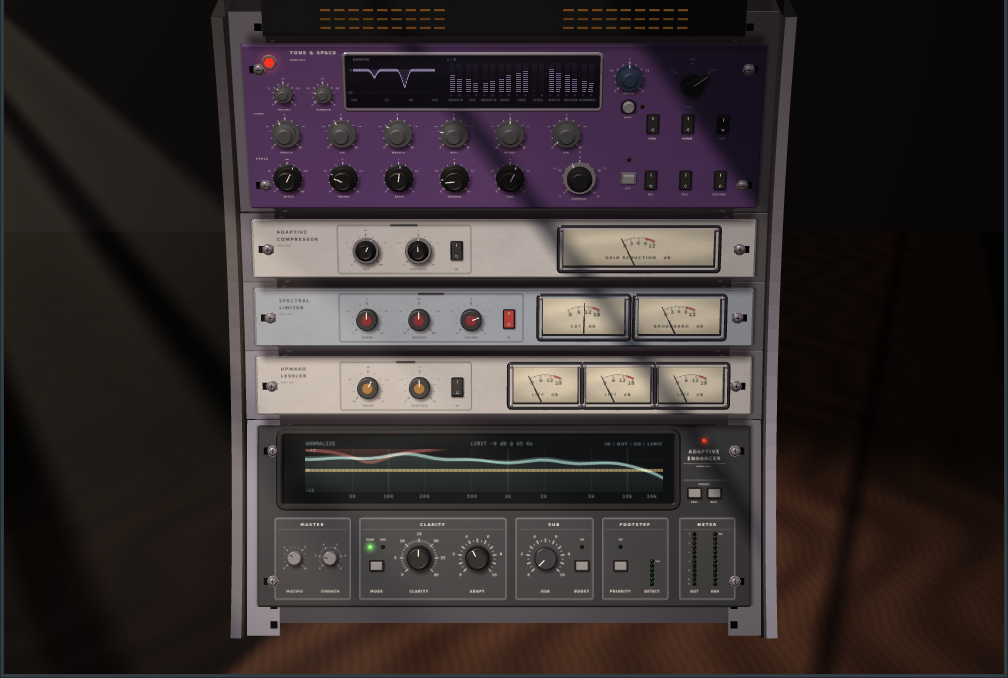
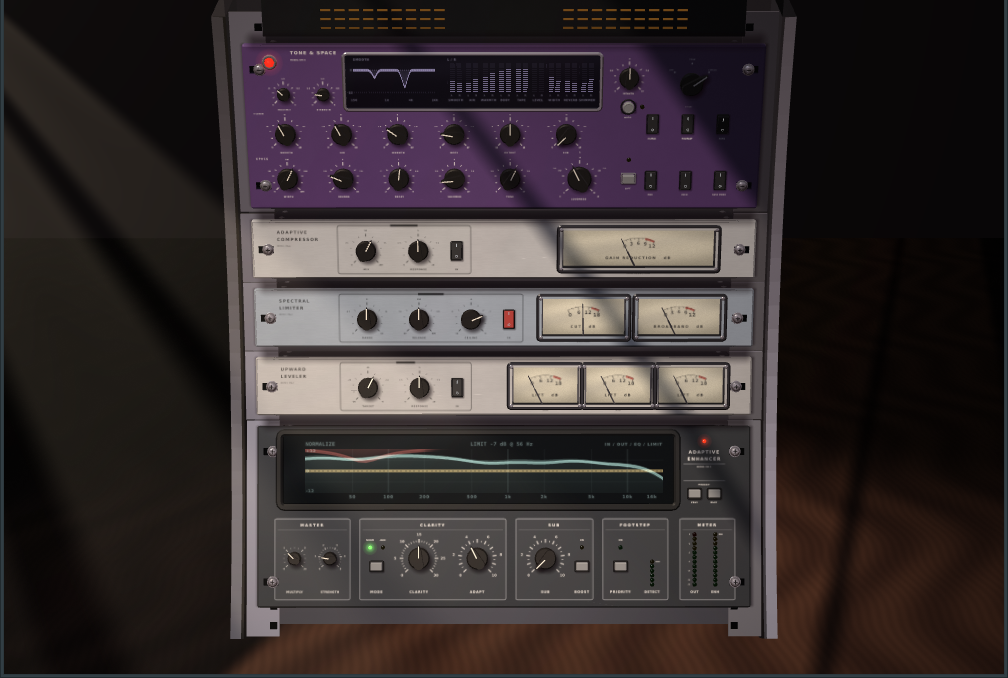
Black chicken-head knobs on every unit; auto modes turn the knobs they drive
- Every knob is a black bakelite chicken head like the POWER selector (beak ends at the ticks)
- AUTO heaven turns REVERB, DECAY, SHIMMER, SPACE TONE, WIDTH, AIR and SUB to the values in use;
  MATCH turns OUTPUT by its gain. Display only: parameters keep the user's settings.
- AUTO starts from a neutral programme's choice instead of zeros before it has heard anything

diff --git a/Source/UI/Scene/DeviceLayout.h b/Source/UI/Scene/DeviceLayout.h
@@ -392,37 +392,37 @@ namespace pad::layout
     // Each mode keeps its own setting; the MODE button swaps which one the knob drives.
     inline constexpr std::array<ControlDef, 44> controls {{
         { ControlKind::button, -1.29f, buttonZ, pid::clarityMode, "MODE" },
-        { ControlKind::knob,   -0.86f, knobZ,   pid::clarityNorm, "CLARITY", pid::clarityAdd, pid::clarityMode },
-        { ControlKind::knob,   -0.27f, knobZ,   pid::adaptSpeed,  "ADAPT" },
-        { ControlKind::knob,    0.42f, knobZ,   pid::sub,         "SUB", nullptr, nullptr, enhUnit, nullptr, 1.0f, KnobStyle::machinedBlack },
+        { ControlKind::knob,   -0.86f, knobZ,   pid::clarityNorm, "CLARITY", pid::clarityAdd, pid::clarityMode, enhUnit, nullptr, 1.0f, KnobStyle::chickenHeadKnob },
+        { ControlKind::knob,   -0.27f, knobZ,   pid::adaptSpeed,  "ADAPT", nullptr, nullptr, enhUnit, nullptr, 1.0f, KnobStyle::chickenHeadKnob },
+        { ControlKind::knob,    0.42f, knobZ,   pid::sub,         "SUB", nullptr, nullptr, enhUnit, nullptr, 1.0f, KnobStyle::chickenHeadKnob },
         { ControlKind::button,  0.79f, buttonZ, pid::subBoost,    "BOOST" },
         { ControlKind::button,  1.18f, buttonZ, pid::footstep,    "PRIORITY" },
-        { ControlKind::knob,   masterKnobX2[0], knobZ, pid::enhMultiply, "MULTIPLY", nullptr, nullptr, enhUnit, "ENHANCER", masterKnobSize, KnobStyle::machinedSilver },
-        { ControlKind::knob,   masterKnobX2[1], knobZ, pid::enhStrength, "STRENGTH", nullptr, nullptr, enhUnit, "ENHANCER", masterKnobSize, KnobStyle::machinedSilver },
+        { ControlKind::knob,   masterKnobX2[0], knobZ, pid::enhMultiply, "MULTIPLY", nullptr, nullptr, enhUnit, "ENHANCER", masterKnobSize, KnobStyle::chickenHeadKnob },
+        { ControlKind::knob,   masterKnobX2[1], knobZ, pid::enhStrength, "STRENGTH", nullptr, nullptr, enhUnit, "ENHANCER", masterKnobSize, KnobStyle::chickenHeadKnob },
 
         // Rack-wide PRESET buttons in the maker block (momentary; the name shows on the analyser)
         { ControlKind::button, presetButtonX[0], presetButtonZ, pid::presetPrev, "PREV", nullptr, nullptr, enhUnit, "PRESET" },
         { ControlKind::button, presetButtonX[1], presetButtonZ, pid::presetNext, "NEXT", nullptr, nullptr, enhUnit, "PRESET" },
 
-        { ControlKind::knob, seraphFirstKnobX + 0.0f * seraphKnobStep, seraphRow1Z, pid::silkSmooth, "SMOOTH", nullptr, nullptr, tubeUnit, "TONE", 1.0f, KnobStyle::marconiGrey },
-        { ControlKind::knob, seraphFirstKnobX + 1.0f * seraphKnobStep, seraphRow1Z, pid::silkAir, "AIR", nullptr, nullptr, tubeUnit, "TONE", 1.0f, KnobStyle::marconiGrey },
-        { ControlKind::knob, seraphFirstKnobX + 2.0f * seraphKnobStep, seraphRow1Z, pid::silkWarmth, "WARMTH", nullptr, nullptr, tubeUnit, "TONE", 1.0f, KnobStyle::marconiGrey },
-        { ControlKind::knob, seraphFirstKnobX + 3.0f * seraphKnobStep, seraphRow1Z, pid::silkBody, "BODY", nullptr, nullptr, tubeUnit, "TONE", 1.0f, KnobStyle::marconiGrey },
-        { ControlKind::knob, seraphFirstKnobX + 4.0f * seraphKnobStep, seraphRow1Z, pid::silkOutput, "OUTPUT", nullptr, nullptr, tubeUnit, "TONE", 1.0f, KnobStyle::marconiGrey },
-        { ControlKind::knob, seraphFirstKnobX + 5.0f * seraphKnobStep, seraphRow1Z, pid::silkSub, "SUB", nullptr, nullptr, tubeUnit, "TONE", 1.0f, KnobStyle::marconiGrey },
+        { ControlKind::knob, seraphFirstKnobX + 0.0f * seraphKnobStep, seraphRow1Z, pid::silkSmooth, "SMOOTH", nullptr, nullptr, tubeUnit, "TONE", 1.0f, KnobStyle::chickenHeadKnob },
+        { ControlKind::knob, seraphFirstKnobX + 1.0f * seraphKnobStep, seraphRow1Z, pid::silkAir, "AIR", nullptr, nullptr, tubeUnit, "TONE", 1.0f, KnobStyle::chickenHeadKnob },
+        { ControlKind::knob, seraphFirstKnobX + 2.0f * seraphKnobStep, seraphRow1Z, pid::silkWarmth, "WARMTH", nullptr, nullptr, tubeUnit, "TONE", 1.0f, KnobStyle::chickenHeadKnob },
+        { ControlKind::knob, seraphFirstKnobX + 3.0f * seraphKnobStep, seraphRow1Z, pid::silkBody, "BODY", nullptr, nullptr, tubeUnit, "TONE", 1.0f, KnobStyle::chickenHeadKnob },
+        { ControlKind::knob, seraphFirstKnobX + 4.0f * seraphKnobStep, seraphRow1Z, pid::silkOutput, "OUTPUT", nullptr, nullptr, tubeUnit, "TONE", 1.0f, KnobStyle::chickenHeadKnob },
+        { ControlKind::knob, seraphFirstKnobX + 5.0f * seraphKnobStep, seraphRow1Z, pid::silkSub, "SUB", nullptr, nullptr, tubeUnit, "TONE", 1.0f, KnobStyle::chickenHeadKnob },
 
-        { ControlKind::knob, seraphFirstKnobX + 0.0f * seraphKnobStep, seraphRow2Z, pid::haloWidth, "WIDTH", nullptr, nullptr, tubeUnit, "SPACE", 1.0f, KnobStyle::fluted },
-        { ControlKind::knob, seraphFirstKnobX + 1.0f * seraphKnobStep, seraphRow2Z, pid::haloSpace, "REVERB", nullptr, nullptr, tubeUnit, "SPACE", 1.0f, KnobStyle::fluted },
-        { ControlKind::knob, seraphFirstKnobX + 2.0f * seraphKnobStep, seraphRow2Z, pid::haloDecay, "DECAY", nullptr, nullptr, tubeUnit, "SPACE", 1.0f, KnobStyle::fluted },
-        { ControlKind::knob, seraphFirstKnobX + 3.0f * seraphKnobStep, seraphRow2Z, pid::haloShimmer, "SHIMMER", nullptr, nullptr, tubeUnit, "SPACE", 1.0f, KnobStyle::fluted },
-        { ControlKind::knob, seraphFirstKnobX + 4.0f * seraphKnobStep, seraphRow2Z, pid::haloTone, "TONE", nullptr, nullptr, tubeUnit, "SPACE", 1.0f, KnobStyle::fluted },
+        { ControlKind::knob, seraphFirstKnobX + 0.0f * seraphKnobStep, seraphRow2Z, pid::haloWidth, "WIDTH", nullptr, nullptr, tubeUnit, "SPACE", 1.0f, KnobStyle::chickenHeadKnob },
+        { ControlKind::knob, seraphFirstKnobX + 1.0f * seraphKnobStep, seraphRow2Z, pid::haloSpace, "REVERB", nullptr, nullptr, tubeUnit, "SPACE", 1.0f, KnobStyle::chickenHeadKnob },
+        { ControlKind::knob, seraphFirstKnobX + 2.0f * seraphKnobStep, seraphRow2Z, pid::haloDecay, "DECAY", nullptr, nullptr, tubeUnit, "SPACE", 1.0f, KnobStyle::chickenHeadKnob },
+        { ControlKind::knob, seraphFirstKnobX + 3.0f * seraphKnobStep, seraphRow2Z, pid::haloShimmer, "SHIMMER", nullptr, nullptr, tubeUnit, "SPACE", 1.0f, KnobStyle::chickenHeadKnob },
+        { ControlKind::knob, seraphFirstKnobX + 4.0f * seraphKnobStep, seraphRow2Z, pid::haloTone, "TONE", nullptr, nullptr, tubeUnit, "SPACE", 1.0f, KnobStyle::chickenHeadKnob },
 
         // LOUDNESS: one knob, two printed scales (HOLD / LIFT + HOLD), a button to swap between them
-        { ControlKind::knob,   0.74f, seraphRow2Z, pid::heavenHold, "LOUDNESS", pid::heavenLift, pid::heavenMode, tubeUnit, "TONE & SPACE", 1.18f, KnobStyle::marconi },
+        { ControlKind::knob,   0.74f, seraphRow2Z, pid::heavenHold, "LOUDNESS", pid::heavenLift, pid::heavenMode, tubeUnit, "TONE & SPACE", 1.18f, KnobStyle::chickenHeadKnob },
         { ControlKind::button, 1.22f, seraphRow2Z, pid::heavenMode, "LIFT", nullptr, nullptr, tubeUnit, "LOUDNESS", 1.0f, KnobStyle::proXl, SwitchStyle::rocker, ButtonStyle::chromeBezel },
 
         // AUTO heaven: the button hands the space to the unit, HEAVEN says how far it may take it
-        { ControlKind::knob,   1.20f, -0.50f, pid::heavenAutoAmount, "HEAVEN", nullptr, nullptr, tubeUnit, "TONE & SPACE", 0.95f, KnobStyle::marconiBlue },
+        { ControlKind::knob,   1.20f, -0.50f, pid::heavenAutoAmount, "HEAVEN", nullptr, nullptr, tubeUnit, "TONE & SPACE", 0.95f, KnobStyle::chickenHeadKnob },
         { ControlKind::button, 1.20f, -0.215f, pid::heavenAuto, "AUTO", nullptr, nullptr, tubeUnit, "HEAVEN", 1.0f, KnobStyle::proXl, SwitchStyle::rocker, ButtonStyle::round },
 
         { ControlKind::toggle, 1.78f, seraphRow1Z - 0.10f, pid::silkProtect, "PROTECT", nullptr, nullptr, tubeUnit, "TONE" },
@@ -433,21 +433,21 @@ namespace pad::layout
         { ControlKind::toggle, 1.44f, seraphRow2Z + 0.02f, pid::haloMod, "MOD", nullptr, nullptr, tubeUnit, "SPACE" },
 
         { ControlKind::selector, 1.80f, -0.44f, pid::seraphMode, "POWER", nullptr, nullptr, tubeUnit, "TONE & SPACE", 1.15f, KnobStyle::chickenHead },
-        { ControlKind::knob, seraphMasterX[0], seraphMasterZ, pid::seraphMultiply, "MULTIPLY", nullptr, nullptr, tubeUnit, "TONE & SPACE", masterKnobSize, KnobStyle::marconiGrey },
-        { ControlKind::knob, seraphMasterX[1], seraphMasterZ, pid::seraphStrength, "STRENGTH", nullptr, nullptr, tubeUnit, "TONE & SPACE", masterKnobSize, KnobStyle::marconiGrey },
+        { ControlKind::knob, seraphMasterX[0], seraphMasterZ, pid::seraphMultiply, "MULTIPLY", nullptr, nullptr, tubeUnit, "TONE & SPACE", masterKnobSize, KnobStyle::chickenHeadKnob },
+        { ControlKind::knob, seraphMasterX[1], seraphMasterZ, pid::seraphStrength, "STRENGTH", nullptr, nullptr, tubeUnit, "TONE & SPACE", masterKnobSize, KnobStyle::chickenHeadKnob },
 
-        { ControlKind::knob,   oneUKnobX + 0.0f * oneUKnobStep, oneUKnobZ, pid::tideMix, "MIX", nullptr, nullptr, tideUnit, "COMPRESSOR", 1.0f, KnobStyle::skirted },
-        { ControlKind::knob,   oneUKnobX + 1.0f * oneUKnobStep, oneUKnobZ, pid::tideResponse, "RESPONSE", nullptr, nullptr, tideUnit, "COMPRESSOR", 1.0f, KnobStyle::skirted },
+        { ControlKind::knob,   oneUKnobX + 0.0f * oneUKnobStep, oneUKnobZ, pid::tideMix, "MIX", nullptr, nullptr, tideUnit, "COMPRESSOR", 1.0f, KnobStyle::chickenHeadKnob },
+        { ControlKind::knob,   oneUKnobX + 1.0f * oneUKnobStep, oneUKnobZ, pid::tideResponse, "RESPONSE", nullptr, nullptr, tideUnit, "COMPRESSOR", 1.0f, KnobStyle::chickenHeadKnob },
         { ControlKind::toggle, oneUButtonX, oneUButtonZ, pid::tideActive, "IN", nullptr, nullptr, tideUnit, "COMPRESSOR" },
 
-        { ControlKind::knob,   oneUKnobX + 0.0f * oneUKnobStep, oneUKnobZ, pid::lumenTarget, "TARGET", nullptr, nullptr, lumenUnit, "LEVELER", 1.0f, KnobStyle::amberInstrument },
-        { ControlKind::knob,   oneUKnobX + 1.0f * oneUKnobStep, oneUKnobZ, pid::lumenResponse, "RESPONSE", nullptr, nullptr, lumenUnit, "LEVELER", 1.0f, KnobStyle::amberInstrument },
+        { ControlKind::knob,   oneUKnobX + 0.0f * oneUKnobStep, oneUKnobZ, pid::lumenTarget, "TARGET", nullptr, nullptr, lumenUnit, "LEVELER", 1.0f, KnobStyle::chickenHeadKnob },
+        { ControlKind::knob,   oneUKnobX + 1.0f * oneUKnobStep, oneUKnobZ, pid::lumenResponse, "RESPONSE", nullptr, nullptr, lumenUnit, "LEVELER", 1.0f, KnobStyle::chickenHeadKnob },
         { ControlKind::toggle, oneUButtonX, oneUButtonZ, pid::lumenActive, "IN", nullptr, nullptr, lumenUnit, "LEVELER" },
 
         // SPECTRAL LIMITER: three knobs, then IN
-        { ControlKind::knob,   oneUKnobX + 0.0f * oneUKnobStep, oneUKnobZ, pid::spectralRange, "RANGE", nullptr, nullptr, limiterUnit, "SPECTRAL LIMITER", 1.0f, KnobStyle::oxbloodInstrument },
-        { ControlKind::knob,   oneUKnobX + 1.0f * oneUKnobStep, oneUKnobZ, pid::spectralRelease, "RELEASE", nullptr, nullptr, limiterUnit, "SPECTRAL LIMITER", 1.0f, KnobStyle::oxbloodInstrument },
-        { ControlKind::knob,   oneUKnobX + 2.0f * oneUKnobStep, oneUKnobZ, pid::spectralCeiling, "CEILING", nullptr, nullptr, limiterUnit, "SPECTRAL LIMITER", 1.0f, KnobStyle::oxbloodInstrument },
+        { ControlKind::knob,   oneUKnobX + 0.0f * oneUKnobStep, oneUKnobZ, pid::spectralRange, "RANGE", nullptr, nullptr, limiterUnit, "SPECTRAL LIMITER", 1.0f, KnobStyle::chickenHeadKnob },
+        { ControlKind::knob,   oneUKnobX + 1.0f * oneUKnobStep, oneUKnobZ, pid::spectralRelease, "RELEASE", nullptr, nullptr, limiterUnit, "SPECTRAL LIMITER", 1.0f, KnobStyle::chickenHeadKnob },
+        { ControlKind::knob,   oneUKnobX + 2.0f * oneUKnobStep, oneUKnobZ, pid::spectralCeiling, "CEILING", nullptr, nullptr, limiterUnit, "SPECTRAL LIMITER", 1.0f, KnobStyle::chickenHeadKnob },
         { ControlKind::toggle, oneUKnobX + 2.0f * oneUKnobStep + 0.38f, oneUButtonZ, pid::spectralActive, "IN", nullptr, nullptr, limiterUnit, "SPECTRAL LIMITER", 1.0f, KnobStyle::proXl, SwitchStyle::rockerRed },
     }};
 

diff --git a/Source/UI/Scene/HardwareRenderer.cpp b/Source/UI/Scene/HardwareRenderer.cpp
@@ -635,6 +635,64 @@ namespace pad
         }
     }
 
+    /** A parameter's value in its own units, and back (the spec's range and skew). */
+    static juce::NormalisableRange<float> rangeOf (const pad::params::Spec& s)
+    {
+        juce::NormalisableRange<float> r (s.minValue, s.maxValue);
+        if (s.skewCentre > 0.0f)
+            r.setSkewForCentre (s.skewCentre);
+        return r;
+    }
+
+    /** Where a knob should stand when an auto mode is turning it (normalised), or `value` when none is.
+        AUTO heaven moves REVERB, DECAY, SHIMMER, SPACE TONE, WIDTH, AIR and SUB toward what it chose, as far
+        as it has blended in; MATCH turns OUTPUT by the level-match gain it is applying. Display only: the
+        parameters keep the user's settings, which come back as the auto mode lets go. */
+    float HardwareRenderer::autoTurnedValue (const ControlDef& c, float value) const
+    {
+        namespace id = pad::params::id;
+        const std::string_view pid (c.paramId);
+        int chosenIndex = -1;
+        float fromDsp = 1.0f;   // knob units per DSP unit, before MULTIPLY
+        if      (pid == id::haloSpace)   { chosenIndex = 0; fromDsp = 10.0f; }
+        else if (pid == id::haloDecay)   { chosenIndex = 1; }
+        else if (pid == id::haloShimmer) { chosenIndex = 2; fromDsp = 10.0f; }
+        else if (pid == id::haloTone)    { chosenIndex = 3; fromDsp = 10.0f; }
+        else if (pid == id::haloWidth)   { chosenIndex = 4; fromDsp = 100.0f; }
+        else if (pid == id::silkAir)     { chosenIndex = 5; }
+        else if (pid == id::silkSub)     { chosenIndex = 6; }
+        else if (pid != id::silkOutput)
+            return value;
+
+        const auto* spec = pad::params::findSpec (c.paramId);
+        if (spec == nullptr)
+            return value;
+        const auto range = rangeOf (*spec);
+        const float user = range.convertFrom0to1 (value);
+        auto realOf = [this] (const char* paramId)
+        {
+            const auto* s = pad::params::findSpec (paramId);
+            return s != nullptr ? rangeOf (*s).convertFrom0to1 (bridge.getNormalised (bridge.indexOf (paramId))) : 0.0f;
+        };
+
+        float shown = user;
+        if (chosenIndex < 0)
+        {
+            if (realOf (id::silkAuto) > 0.5f)
+                shown = user + meters.silkMatchDb.load (std::memory_order_relaxed);
+        }
+        else
+        {
+            const float blend = meters.heavenAutoBlend.load (std::memory_order_relaxed);
+            const float multiply = realOf (id::seraphMultiply);
+            if (blend < 1.0e-3f || multiply < 0.05f)
+                return value;
+            const float chosen = meters.heavenAutoChoice[(size_t) chosenIndex].load (std::memory_order_relaxed) * fromDsp / multiply;
+            shown = user + (chosen - user) * blend;
+        }
+        return range.convertTo0to1 (std::clamp (shown, spec->minValue, spec->maxValue));
+    }
+
     void HardwareRenderer::updateAnimation (float dt)
     {
         const int hovered = shared.hoveredControl.load();
@@ -680,7 +738,9 @@ namespace pad
                 changed = true;
             }
 
-            const float target = c.kind == ControlKind::selector ? selectorAngleForValue (value) : knobAngleForValue (value);
+            // An auto mode turns the knob itself (not while you are holding it)
+            const float shownValue = active == i ? value : autoTurnedValue (c, value);
+            const float target = c.kind == ControlKind::selector ? selectorAngleForValue (shownValue) : knobAngleForValue (shownValue);
             const bool isHovered = (hovered == i || active == i);
             k.update (target, changed, (int) bridge.getLastSource (p), isHovered, dt);
             busy = busy || ! k.isIdle (target, isHovered);

diff --git a/Source/DSP/Seraph.h b/Source/DSP/Seraph.h
@@ -74,6 +74,7 @@ namespace enh::dsp
         float getSmoothingDb() const noexcept { return smoothingDb; }
         float getBlend() const noexcept       { return blend; }
         float getLevelDb() const noexcept     { return 20.0f * std::log10 (std::max (1.0e-4f, outGain)); }
+        float getMatchDb() const noexcept     { return autoDb; }   // MATCH: the loudness-match gain it is applying
 
         /** Current dip per detection band (dB, <= 0) and the bands' centre frequencies. */
         const std::array<float, 28>& getDips() const noexcept   { return cutDb; }
@@ -330,6 +331,12 @@ namespace enh::dsp
             for (auto* st : { &dryHp, &dryHp2, &dryShelf, &wetHp, &wetHp2, &wetShelf }) st->reset();
             heavenGain = 1.0f;
             heavenDb = 0.0f;
+
+            // AUTO starts from a neutral programme, not from nothing
+            autoBlend = 0.0f;
+            crestDb = 12.0f; widthRatio = 0.2f; brightDb = -14.0f; bassBalanceDb = 0.0f;
+            aFast = 1.0e-8f; aPeak = crestAcc = lp8 = lp4 = lp1 = lpB1 = lpB2 = 0.0f;
+            choose();
         }
 
         void process (float* const* channels, int numChannels, int numSamples, const Settings& in) noexcept
@@ -366,6 +373,7 @@ namespace enh::dsp
         float getHeavenDb() const noexcept { return heavenDb; }
 
         const SilkStage& getSilk() const noexcept { return silk; }
+        float getAutoBlend() const noexcept { return autoBlend; }   // how far AUTO has taken the knobs (0..1)
         const HaloStage& getHalo() const noexcept { return halo; }
 
         /** Live per-channel activity, in display order. */
@@ -423,7 +431,12 @@ namespace enh::dsp
             widthRatio += ((float) (side / (mono + 1.0e-20)) - widthRatio) * k;
             brightDb += (db (hf) - db (pres) - brightDb) * k;
             bassBalanceDb += (db (bass) - db (mid) - bassBalanceDb) * k;
+            choose();
+        }
 
+        /** AUTO's choice from what it has heard so far (before anything: a neutral, typical programme). */
+        void choose() noexcept
+        {
             auto sat = [] (float x) { return std::clamp (x, 0.0f, 1.0f); };
             const float sustained = sat ((13.0f - crestDb) / 6.0f);    // pads, strings, drones
             const float sparse = sat ((crestDb - 14.0f) / 8.0f);       // single hits with room between them
@@ -492,7 +505,7 @@ namespace enh::dsp
 
         SilkStage silk;
         HaloStage halo;
-        AutoChoice autoChoice;
+        AutoChoice autoChoice { 0.197f, 2.07f, 0.10f, 0.45f, 1.27f, 3.0f, 1.0f };   // = choose() on a neutral programme
         float autoBlend = 0.0f, aFast = 1.0e-8f, aPeak = 0.0f, crestAcc = 0.0f, crestDb = 12.0f, widthRatio = 0.2f;
         float brightDb = -14.0f, bassBalanceDb = 0.0f, lp8 = 0, lp4 = 0, lp1 = 0, lpB1 = 0, lpB2 = 0;
 

diff --git a/Source/DSP/EnhEngine.cpp b/Source/DSP/EnhEngine.cpp
@@ -136,6 +136,14 @@ namespace enh::dsp
             for (int c = 0; c < 2; ++c)
                 meters.seraphActivityDb[(size_t) (a * 2 + c)].store (seraph.getActivityDb (a, c), std::memory_order_relaxed);
         meters.seraphLevelDb.store (seraph.getSilk().getBlend() > 0.01f ? seraph.getSilk().getLevelDb() : 0.0f, std::memory_order_relaxed);
+        meters.heavenAutoBlend.store (seraph.getAutoBlend(), std::memory_order_relaxed);
+        {
+            const auto& a = seraph.getAutoChoice();
+            const float chosen[7] { a.space, a.decayS, a.shimmer, a.tone, a.width, a.air, a.sub };
+            for (size_t k = 0; k < 7; ++k)
+                meters.heavenAutoChoice[k].store (chosen[k], std::memory_order_relaxed);
+        }
+        meters.silkMatchDb.store (seraph.getSilk().getBlend() > 0.01f ? seraph.getSilk().getMatchDb() : 0.0f, std::memory_order_relaxed);
         const auto& dips = seraph.getSilk().getDips();
         for (size_t k = 0; k < dips.size(); ++k)
             meters.silkDipDb[k].store (dips[k], std::memory_order_relaxed);

diff --git a/Source/DSP/EngineMeters.h b/Source/DSP/EngineMeters.h
@@ -44,6 +44,12 @@ namespace enh::dsp
         // and SMOOTH's current dip per detection band (dB, <= 0)
         std::array<std::atomic<float>, 16> seraphActivityDb {};
         std::atomic<float> seraphLevelDb { 0.0f };
+
+        // What the auto modes are doing to the knobs, so the panel can turn them: AUTO heaven's blend and
+        // what it chose (DSP units: space, decay s, shimmer, tone, width, air, sub), and MATCH's gain (dB)
+        std::atomic<float> heavenAutoBlend { 0.0f };
+        std::array<std::atomic<float>, 7> heavenAutoChoice {};
+        std::atomic<float> silkMatchDb { 0.0f };
         std::array<std::atomic<float>, 28> silkDipDb {};
     };
 }

diff --git a/Source/UI/Scene/HardwareRenderer.h b/Source/UI/Scene/HardwareRenderer.h
@@ -83,6 +83,8 @@ namespace pad
 
         /** moving = matrix for parts that turn / press; fixed = for the rest. accentGain scales accent colours.
             litPointer: the pointer part glows (lamps, jewels); otherwise it is paint, lit like the knob. */
+        float autoTurnedValue (const layout::ControlDef&, float value) const;
+
         void drawModel (const GpuModel&, const gfx::Mat4& moving, const gfx::Mat4& fixed, gfx::Vec3 hoverLift,
                         gfx::Vec3 pointerColour, float accentGain = 1.0f, bool litPointer = true);
 

diff --git a/README.md b/README.md
@@ -198,8 +198,10 @@ programme over a few seconds (sustained or percussive, mono or wide, dull or bri
 low end) and moves REVERB, DECAY, SHIMMER, SPACE TONE, WIDTH, AIR and SUB toward what that programme
 wants: long, shimmering and wide for pads and ambient music, shorter and drier for busy percussive material,
 more air on dull sources, more SUB on thin ones. **HEAVEN** sets how far it goes, from 0 (your knobs) to
-10 (all AUTO). The move is smoothed over seconds, so the space never jumps. The knobs don't move; your
-settings come back when AUTO is off.
+10 (all AUTO). The move is smoothed over seconds, so the space never jumps. You can watch it work: the
+knobs turn themselves to what AUTO is applying, and turn back to your settings when AUTO is off. Your
+saved settings never change, and a knob you are holding shows your own value. **MATCH** does the same
+with OUTPUT: the knob shows the level-match gain it is adding.
 
 One unified front (no channel split): a live display in the middle, the ten knobs in one row along the bottom,
 the six I / O rocker switches (I = on) in a grid on the right, lamp and POWER on the left. The display shows, live:
@@ -369,8 +371,8 @@ geometry primitives, hardware models (knob styles, push buttons, bat toggles, je
 chassis), materials, control animation, X11 pointer / visibility helpers and the fisheye loupe. ENH Master keeps only
 what is specific to it: its layout, its printed panels and the two display shaders. See `HardwareKit/README.md`.
 
-Knob styles in use: ENH Master's CLARITY / ADAPT / SUB are `proXl`, its masters `aluminium`; TONE & SPACE's row is
-`fluted` (Davies type), its masters `softTouch` with violet caps, and POWER is a `chickenHead` selector.
+Knob styles in use: every knob is `chickenHeadKnob` (black bakelite, beak ending at the ticks); POWER is a
+`chickenHead` selector (the long-beak version).
 
 ## Anti-aliasing
 
@@ -390,7 +392,7 @@ cheeks' arc, and a contact shadow runs where the ears clamp to the rails.
 
 ## Hardware styles
 
-HardwareKit now has 52 knob styles, 5 switch styles and 5 button styles. Most knob styles are
+HardwareKit now has 50 knob styles, 5 switch styles and 5 button styles. Most knob styles are
 recipes (skirt, body shape, grip carving, cap, pointer, materials) built by one generator at every
 level of detail:
 
@@ -400,27 +402,25 @@ level of detail:
 - instrument collets and Eurorack knobs;
 - rubber knobs and pointer bars;
 - hi-fi discs;
-- guitar top-hats and speed knobs;
-- Neve 1073-type Marconi knobs in grey, blue and red.
+- guitar top-hats and speed knobs.
 
 Switches: I / O rocker (standard, red, wide), bat toggle, paddle toggle. Buttons: square, round,
 wide, chrome bezel, soft dome. `PAD_UI_TEST_GALLERY=1` lays every style out on the enhancer (dev only).
 
-The knobs imitate real studio hardware: Neve 1073 Marconi knobs, Davies 1900 flutes, Rogan and
-instrument skirts. Plastics are satin rather than glossy, and caps are small, muted inserts. Metal is
-satin aluminium, not mirror chrome. Pointer lines are painted or inlaid, lit by the room, and they don't
-glow. The panels follow the same idea: a model number instead of feature lists, plain black meter
+Every knob on the rack is a black bakelite chicken head: a round back end that tapers to a
+pointed beak, with a painted white line along it. The knobs' beaks stop at their printed ticks, and the
+POWER selector's reaches out over its positions. Plastics are satin and the pointer lines are paint, not
+glowing. The panels follow the same idea: a model number instead of feature lists, plain black meter
 bezels, single-colour displays, and no animated signal-flow arrows.
 
 In use:
 
 | Unit | Knobs | Switches and buttons |
 |---|---|---|
-| ADAPTIVE ENHANCER | ProXL; machined black SUB; machined silver masters | |
-| TONE & SPACE | grey Neve-1073-type Marconi knobs (TONE, masters), Davies flutes (SPACE), a black Marconi for LOUDNESS, a blue Marconi for HEAVEN | chrome-bezel LIFT button, round AUTO button with its own LED |
-| ADAPTIVE COMPRESSOR | machined skirts with a petrol cap | |
-| UPWARD LEVELER | instrument knobs with small burnt-amber cap inserts | |
-| SPECTRAL LIMITER | instrument knobs with small oxblood cap inserts | red I / O rocker |
+| every unit | black chicken heads (POWER: the long-beak selector version) | |
+| ADAPTIVE ENHANCER | | square buttons |
+| TONE & SPACE | | chrome-bezel LIFT button, round AUTO button with its own LED |
+| SPECTRAL LIMITER | | red I / O rocker |
 
 The rockers are 30 % larger than in 1.1.
 

diff --git a/Vault/Devices/SERAPH unit.md b/Vault/Devices/SERAPH unit.md
@@ -15,7 +15,9 @@ Right of the display (1.2.0): **AUTO** (a round button with its own LED, like ev
 the unit, and the **HEAVEN** knob sets how far it may take it (0 = your knobs, 10 = all AUTO). AUTO
 listens over ~4 s: crest factor (sustained or percussive), side/mid ratio (mono or wide), 8 kHz+ vs
 presence (dull or bright), sub-120 Hz vs mids (thin or full). From those it picks REVERB, DECAY,
-SHIMMER, SPACE TONE, WIDTH, AIR and SUB, and blends toward them over ~0.5 s. It learns nothing from silence.
+SHIMMER, SPACE TONE, WIDTH, AIR and SUB, and blends toward them over ~0.5 s. It learns nothing from silence,
+and starts from a neutral programme's choice. The panel turns those knobs to the values in use
+(`HardwareRenderer::autoTurnedValue`, display only). MATCH turns OUTPUT by its gain the same way.
 
 **SUB** (the sixth TONE knob): an 80 Hz shelf, an envelope-normalised 2nd harmonic of the bass, and a
 mono bloom (two damped 71 / 97 ms delay lines) that is let through only when the bass is not busy, so
